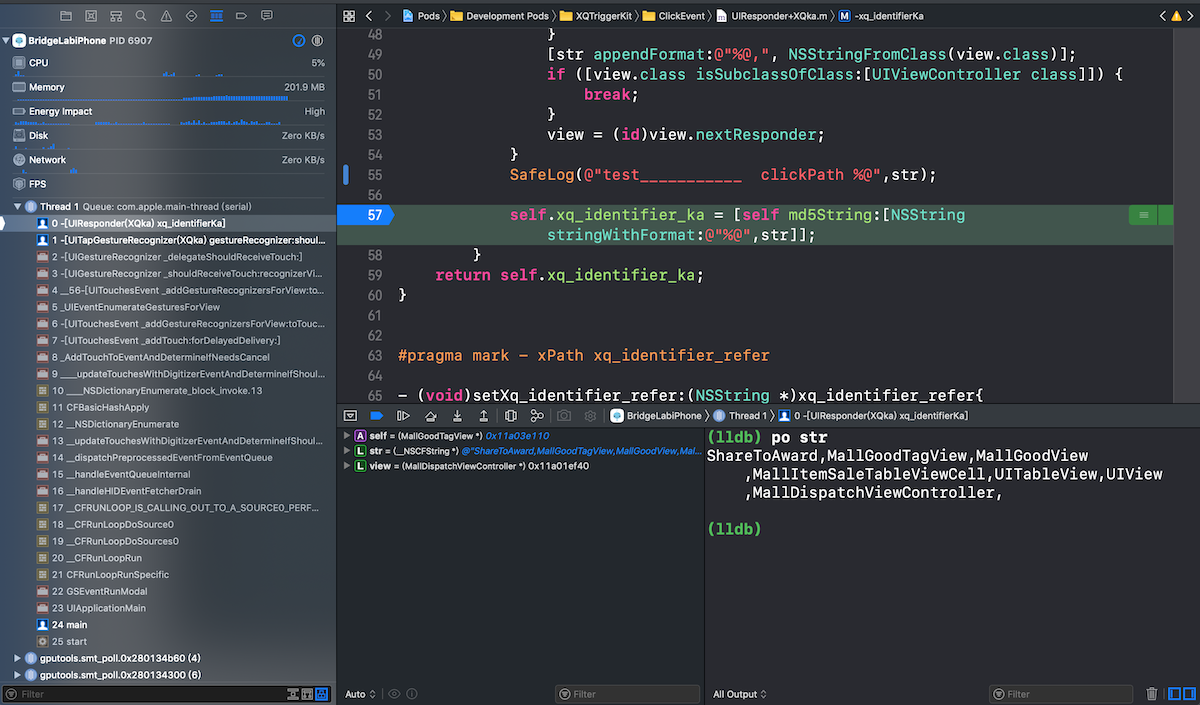
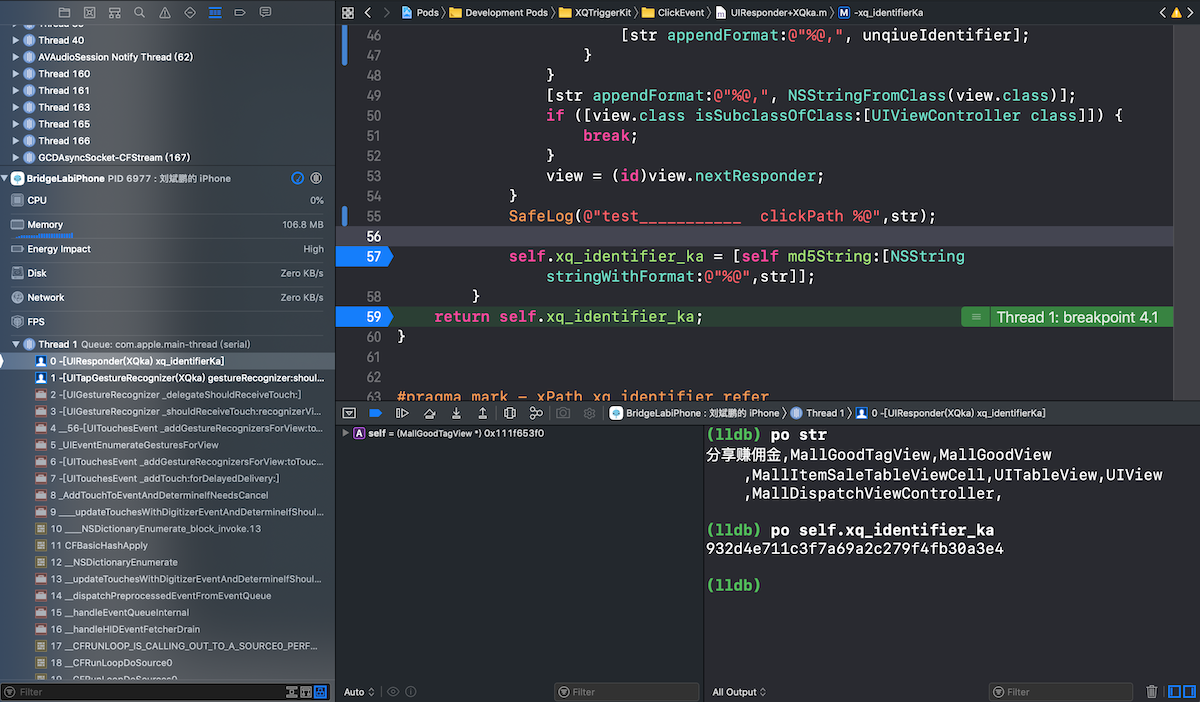
埋点：同类型view意义不一样，唯一标识

diff --git a/第一部分 iOS/1.57.md b/第一部分 iOS/1.57.md
@@ -306,7 +306,7 @@ static char *lbp_viewController_close_time = "lbp_viewController_close_time";
   //UIResponder分类
   - (NSString *)lbp_identifierKa
   {
-  //    if (self.lbp_identifier_ka == nil) {
+  //    if (self.xq_identifier_ka == nil) {
           if ([self isKindOfClass:[UIView class]]) {
               UIView *view = (id)self;
               NSString *sameViewTreeNode = [view obtainSameSuperViewSameClassViewTreeIndexPath];
@@ -324,11 +324,11 @@ static char *lbp_viewController_close_time = "lbp_viewController_close_time";
                   }
                   view = (id)view.nextResponder;
               }
-              self.lbp_identifier_ka = [self md5String:[NSString stringWithFormat:@"%@",str]];
-              //            self.lbp_identifier_ka = [NSString stringWithFormat:@"%@",str];
+              self.xq_identifier_ka = [self md5String:[NSString stringWithFormat:@"%@",str]];
+              //            self.xq_identifier_ka = [NSString stringWithFormat:@"%@",str];
           }
   //    }
-      return self.lbp_identifier_ka;
+      return self.xq_identifier_ka;
   }
   
   // UIView 分类
@@ -440,10 +440,8 @@ NSString *const ShareToAward = @"分享赚佣金";
 
 - (NSString *)setUniqueIdentifier
 {
-    if ([self.tagString isEqualToString:ImmediateyPurchase]) {
-        return @"ImmediateyPurchase";
-    } else if ([self.tagString isEqualToString:ShareToAward]) {
-        return @"ShareToAward";
+    if (self.tagString) {
+        return self.tagString;
     } else {
         return NSStringFromClass([self class]);
     }
@@ -456,7 +454,7 @@ NSString *const ShareToAward = @"分享赚佣金";
 //UIResponder Category 生成 viewPath
 - (NSString *)lbp_identifierKa
 {
-//    if (self.lbp_identifier_ka == nil) {
+//    if (self.xq_identifier_ka == nil) {
         if ([self isKindOfClass:[UIView class]]) {
             UIView *view = (id)self;
             NSString *sameViewTreeNode = [view obtainSameSuperViewSameClassViewTreeIndexPath];
@@ -480,11 +478,11 @@ NSString *const ShareToAward = @"分享赚佣金";
                 }
                 view = (id)view.nextResponder;
             }
-            self.lbp_identifier_ka = [self md5String:[NSString stringWithFormat:@"%@",str]];
-            //            self.lbp_identifier_ka = [NSString stringWithFormat:@"%@",str];
+            self.xq_identifier_ka = [self md5String:[NSString stringWithFormat:@"%@",str]];
+            //            self.xq_identifier_ka = [NSString stringWithFormat:@"%@",str];
         }
 //    }
-    return self.lbp_identifier_ka;
+    return self.xq_identifier_ka;
 }
 ```
 
